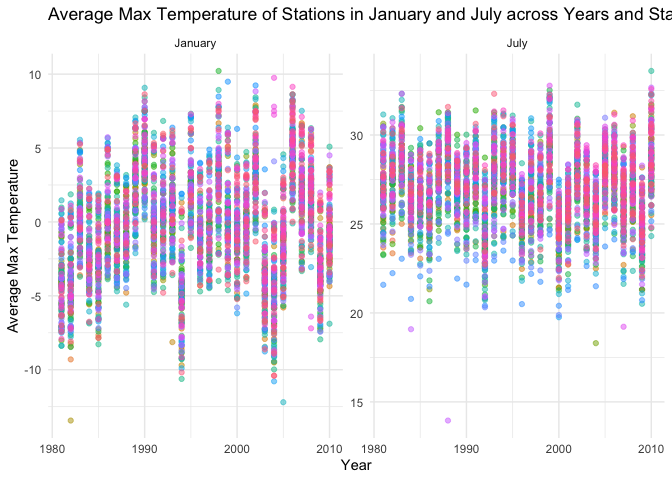
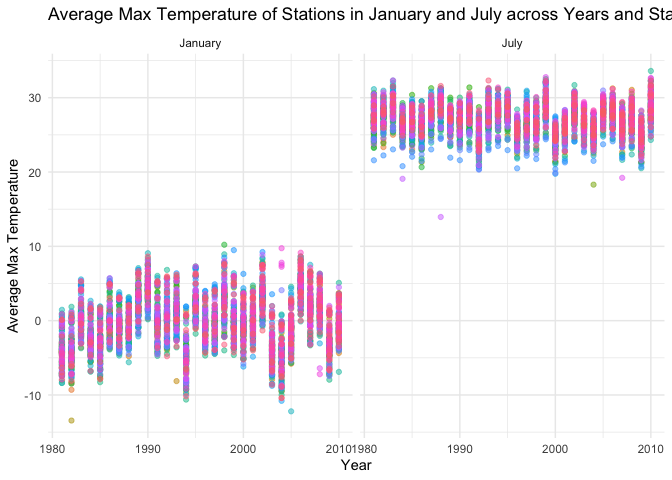
Create table and visulization for problem 2

diff --git a/p8105_hw3_ys3924.md b/p8105_hw3_ys3924.md
@@ -59,7 +59,7 @@ jan_jul_temp = ny_noaa |>
 # Create the plot using the filtered data
   ggplot(jan_jul_temp, aes(x = year, y = avg_max_temp, color = id)) +
   geom_point(alpha = 0.5) +
-  facet_wrap(~month, scales = "free_y", labeller = labeller(month = c("01" = "January", "07" = "July"))) +
+  facet_wrap(~month, labeller = labeller(month = c("01" = "January", "07" = "July"))) +
   labs(title = "Average Max Temperature of Stations in January and July across Years and Stations",
        x = "Year",  
        y = "Average Max Temperature") + 
@@ -110,9 +110,53 @@ covar_data = read_csv("./data/nhanes_covar.csv", skip = 3) |>
   mutate(
     sex = factor(sex, levels = c(1, 2), labels = c("Male", "Female")),
     education = factor(education, levels = c(1, 2, 3), 
-                       labels = c("Less than high school", "High school equivalent", "More than high school"))
+                       labels = c("Less than high school",
+                                  "High school equivalent",
+                                  "More than high school")),
+    age = as.numeric(age)
   ) |>
   drop_na() |>
   filter(age >= 21)
 full_data = left_join(covar_data, accel_data, by = "seqn")
 ```
+
+### Create table for the number of men and women in each education category
+
+``` r
+full_data |>
+  group_by(sex, education) |>
+  summarise(count = n()) |>
+  pivot_wider(names_from = education, values_from = count) |>
+  knitr::kable()
+```
+
+| sex    | Less than high school | High school equivalent | More than high school |
+|:-------|----------------------:|-----------------------:|----------------------:|
+| Male   |                    27 |                     35 |                    56 |
+| Female |                    28 |                     23 |                    59 |
+
+By looking at above table, there are slightly more women have achieved
+higher levels of education (more than high school) compared to men,
+while more men tend to fall in the “High school equivalent” category.
+For education level less than high school, the balance between men and
+women is fairly even.
+
+### Create a visualization of the age distributions for men and women in each education category
+
+``` r
+ggplot(full_data, aes(x = education, y = age, fill = sex)) +
+  geom_boxplot() +
+  labs(title = "Age Distribution by Gender and Education Category", 
+       x = "Education Category", 
+       y = "Age") +
+  theme_minimal()
+```
+
+![](p8105_hw3_ys3924_files/figure-gfm/unnamed-chunk-7-1.png)<!-- -->
+
+According to above boxplot, the age distribution across education levels
+shows that individuals with less education, particularly “Less than high
+school”, tend to be slightly older. The “High school equivalent”
+category shows a younger age range for men than women. For the “More
+than high school” category, the distribution are similar, except that
+the median age for men is higher than women.
